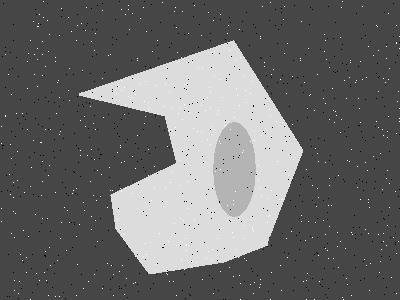
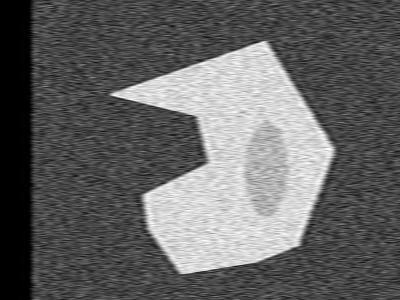
:wheelchair:Вроде как что-то то работает (шум, гаусса, фильтрация низких частот картинок)

diff --git a/lab_EData/forms/py_forms/mainwindow.py b/lab_EData/forms/py_forms/mainwindow.py
@@ -301,68 +301,110 @@ class Ui_mainwindow(object):
 
         if place == 1:
             self.graphWidget_1.clear()
-            self.graphWidget_1.addLegend()
+            try:
+                self.legend_1.scene().removeItem(self.legend_1)
+            except:
+                pass
+
+            self.legend_1 = self.graphWidget_1.addLegend()
             self.graphWidget_1.plot(x, y, pen=pen, name=graph.option)
             self.label_model_1.hide()
             self.graphWidget_1.show()
 
         elif place == 2:
             self.graphWidget_2.clear()
-            self.graphWidget_2.addLegend()
+            try:
+                self.legend_2.scene().removeItem(self.legend_1)
+            except:
+                pass
+
+            self.legend_2 = self.graphWidget_2.addLegend()
             self.graphWidget_2.plot(x, y, pen=pen, name=graph.option)
             self.label_model_2.hide()
             self.graphWidget_2.show()
 
         elif place == 3:
             self.graphWidget_3.clear()
-            self.graphWidget_3.addLegend()
+            try:
+                self.legend_3.scene().removeItem(self.legend_3)
+            except:
+                pass
+
+            self.legend_3 = self.graphWidget_3.addLegend()
             self.graphWidget_3.plot(x, y, pen=pen, name=graph.option)
             self.label_model_3.hide()
             self.graphWidget_3.show()
 
         elif place == 4:
             self.graphWidget_4.clear()
-            self.graphWidget_4.addLegend()
+            try:
+                self.legend_4.scene().removeItem(self.legend_4)
+            except:
+                pass
+
+            self.legend_4 = self.graphWidget_4.addLegend()
             self.graphWidget_4.plot(x, y, pen=pen, name=graph.option)
             self.label_model_4.hide()
             self.graphWidget_4.show()
 
         elif place == 5:
             self.graphWidget_5.clear()
-            self.graphWidget_5.addLegend()
+            try:
+                self.legend_5.scene().removeItem(self.legend_5)
+            except:
+                pass
+
+            self.legend_5 = self.graphWidget_5.addLegend()
             self.graphWidget_5.plot(x, y, pen=pen, name=graph.option)
             self.label_model_5.hide()
             self.graphWidget_5.show()
 
         elif place == 6:
             self.graphWidget_6.clear()
-            self.graphWidget_6.addLegend()
+            try:
+                self.legend_6.scene().removeItem(self.legend_6)
+            except:
+                pass
+
+            self.legend_6 = self.graphWidget_6.addLegend()
             self.graphWidget_6.plot(x, y, pen=pen, name=graph.option)
             self.label_model_6.hide()
             self.graphWidget_6.show()
 
     def show_img(self, place):
         if place == 1:
+            self.graphWidget_1.hide()
+            self.label_model_1.show()
             image = QPixmap(PATH_IMG_TEMP_1)
             self.label_model_1.setPixmap(image)
 
         elif place == 2:
+            self.graphWidget_2.hide()
+            self.label_model_2.show()
             image = QPixmap(PATH_IMG_TEMP_2)
             self.label_model_2.setPixmap(image)
 
         elif place == 3:
+            self.graphWidget_3.hide()
+            self.label_model_3.show()
             image = QPixmap(PATH_IMG_TEMP_3)
             self.label_model_3.setPixmap(image)
 
         elif place == 4:
+            self.graphWidget_4.hide()
+            self.label_model_4.show()
             image = QPixmap(PATH_IMG_TEMP_4)
             self.label_model_4.setPixmap(image)
 
         elif place == 5:
+            self.graphWidget_5.hide()
+            self.label_model_5.show()
             image = QPixmap(PATH_IMG_TEMP_5)
             self.label_model_5.setPixmap(image)
 
         elif place == 6:
+            self.graphWidget_6.hide()
+            self.label_model_6.show()
             image = QPixmap(PATH_IMG_TEMP_6)
             self.label_model_6.setPixmap(image)
 

diff --git a/lab_EData/model.py b/lab_EData/model.py
@@ -68,12 +68,10 @@ def convolution_img(img: np.ndarray, my_filter: np.ndarray) -> np.ndarray:
 
 
 class Model:
-    def __init__(self, option):
+    def __init__(self, option, m=32, fc_1=60, fc_2=80, delta_t=0.001):
         self.n = 1000  # Количество точек по оси Х
         self.display_n = self.n
-        self.flag_checking_display_n = (
-            0  # Флаг использования dislpay_n при отрисовки графика
-        )
+        self.flag_checking_display_n = 0  # Флаг использования dislpay_n при отрисовки графика
 
         self.x = np.arange(0, self.n)
         self.y = np.zeros(self.n)  # Сгенерировали матрицу из нулей
@@ -96,6 +94,12 @@ class Model:
 
         # Гармоничекое процесс
         self.c = 0  # Константа
+
+        # Фильтр
+        self.m = m
+        self.fc_1 = fc_1
+        self.fc_2 = fc_2
+        self.dt = delta_t
 
     # Нормализация осей
     def normalisation_axis(self):
@@ -387,7 +391,7 @@ class Model:
         # Реализация фильтров
         if self.option == 'Низких частот':
             trend = Trend()
-            trend.generation_trend_filter_potter()
+            trend.generation_trend_filter_potter(self.m, self.dt, self.fc_1)
 
             self.y = trend.y
             self.x = trend.x
@@ -397,7 +401,7 @@ class Model:
 
         if self.option == 'Высоких частот':
             trend = Trend()
-            trend.generating_trend_high_potter()
+            trend.generating_trend_high_potter(self.m, self.dt, self.fc_1)
 
             self.y = trend.y
             self.x = trend.x
@@ -407,7 +411,7 @@ class Model:
 
         if self.option == 'Полосовой':
             trend = Trend()
-            trend.generating_trend_bandpass_filter()
+            trend.generating_trend_bandpass_filter(self.m, self.dt, self.fc_1, self.fc_2)
 
             self.y = trend.y
             self.x = trend.x
@@ -417,7 +421,7 @@ class Model:
 
         if self.option == 'Режекторный':
             trend = Trend()
-            trend.generating_trend_notch_filter()
+            trend.generating_trend_notch_filter(self.m, self.dt, self.fc_1, self.fc_2)
 
             self.y = trend.y
             self.x = trend.x

diff --git a/lab_EData/trend.py b/lab_EData/trend.py
@@ -178,8 +178,22 @@ class Trend:
 
         self.y = np.array(y_list)
 
+    def update_filter_start_value(self,m=None, dt=None, fc_1=None, fc_2=None):
+        if m is not None:
+            self.m = m
+
+        if dt is not None:
+            self.dt = dt
+
+        if fc_1 is not None:
+            self.fc_1 = fc_1
+
+        if fc_2 is not None:
+            self.fc_2 = fc_2
+
     # Генерируем тренд фильтра низких частот
-    def generation_trend_filter_potter(self):
+    def generation_trend_filter_potter(self, m=None, dt=None, fc_1=None):
+        self.update_filter_start_value(m, dt, fc_1)
         lpw = filter_potter(self.m, self.dt, self.fc_1)
 
         self.n = self.m
@@ -188,7 +202,8 @@ class Trend:
         self.display_n = self.n * 2 + 1
 
     # Генерируем тренд фильтра высоких частот
-    def generating_trend_high_potter(self):
+    def generating_trend_high_potter(self, m=None, dt=None, fc_1=None):
+        self.update_filter_start_value(m, dt, fc_1)
         hpf = high_potter_filter(self.m, self.dt, self.fc_1)
 
         self.n = self.m
@@ -197,7 +212,8 @@ class Trend:
         self.display_n = self.n * 2 + 1
 
     # Генерируем тренд фильтра полосового
-    def generating_trend_bandpass_filter(self):
+    def generating_trend_bandpass_filter(self, m=None, dt=None, fc_1=None, fc_2=None):
+        self.update_filter_start_value(m, dt, fc_1, fc_2)
         bpf = bandpass_filter(self.m, self.dt, self.fc_1, self.fc_2)
 
         self.n = self.m
@@ -206,7 +222,8 @@ class Trend:
         self.display_n = self.n * 2 + 1
 
     # Генерируем тренд фильтра режекторного
-    def generating_trend_notch_filter(self):
+    def generating_trend_notch_filter(self, m=None, dt=None, fc_1=None, fc_2=None):
+        self.update_filter_start_value(m, dt, fc_1, fc_2)
         bsf = notch_filter(self.m, self.dt, self.fc_1, self.fc_2)
 
         self.n = self.m

diff --git a/lab_EData/Image.py b/lab_EData/Image.py
@@ -144,8 +144,9 @@ def noise(type_of_noise, place_to_show_image, path_img: str, factor=0.3) -> None
 
     elif type_of_noise == "gaussian":
         mean = 0
-        var = factor * 255
-        sigma = var ** 0.5
+        # var = factor * 255
+        # sigma = var ** 0.5
+        sigma = factor * 255
         gauss = np.random.normal(mean, sigma, (width, height))
         pix = pil_img.load()
         for i in range(width):
@@ -375,7 +376,12 @@ def filtration(path: str, my_filter: object, place_to_show: int = 1):
 
     for i in range(width):
         for j in range(height):
-            red = pix[i, j][0]
+
+            try:
+                red = pix[i, j][0]
+            except:
+                red = pix[i, j]
+
             matrix[i][j] = red
 
     transpose_matrix = np.transpose(matrix)
@@ -396,11 +402,17 @@ def filtration(path: str, my_filter: object, place_to_show: int = 1):
 
     for i in range(width):
         for j in range(height):
-            red = int(matrix[i][j])
-            green = int(matrix[i][j])
-            blue = int(matrix[i][j])
 
-            pil_draw.point((i, j), (red, green, blue))
+            try:
+                red = int(matrix[i][j])
+                green = int(matrix[i][j])
+                blue = int(matrix[i][j])
+
+                pil_draw.point((i, j), (red, green, blue))
+
+            except:
+                pixel = int(matrix[i][j])
+                pil_draw.point((i, j), pixel)
 
     save(pil_img, place_to_show)
 

diff --git a/lab_EData/forms/py_forms/filter_window.py b/lab_EData/forms/py_forms/filter_window.py
@@ -235,7 +235,33 @@ class Ui_filter_window(object):
     def add_filter_graph(self):
         place_to_show: int = int(self.comboBox_2.currentText())
         name_of_graph: str = self.comboBox_3.currentText()
-        model = Model(name_of_graph)
+
+        m = self.lineEdit_2.text()
+        delta_t = self.lineEdit.text()
+        fc_1 = self.lineEdit_3.text()
+        fc_2 = self.lineEdit_4.text()
+
+        try:
+            m = int(m)
+        except:
+            m = None
+
+        try:
+            delta_t = float(delta_t)
+        except:
+            delta_t = None
+
+        try:
+            fc_1 = int(fc_1)
+        except:
+            fc_1 = None
+
+        try:
+            fc_2 = int(fc_2)
+        except:
+            fc_2 = None
+
+        model = Model(name_of_graph, m, fc_1, fc_2, delta_t)
         model.calculation()
 
         POSITION_FOR_ANALYSIS[place_to_show] = model

diff --git a/lab_EData/forms/py_forms/image_processing.py b/lab_EData/forms/py_forms/image_processing.py
@@ -195,7 +195,7 @@ class image_processing_window(object):
 
         self.lineEdit_2 = QtWidgets.QLineEdit(self.centralwidget)
         self.lineEdit_2.setObjectName("lineEdit_2")
-        self.lineEdit_2.setStyleSheet("background-color: #546E7A")
+        self.lineEdit_2.setStyleSheet("background-color: #546E7A; color: #EEEEEE")
         self.gridLayout.addWidget(self.lineEdit_2, 6, 4, 1, 1)
 
         self.checkBox_5 = QtWidgets.QCheckBox(self.centralwidget)
